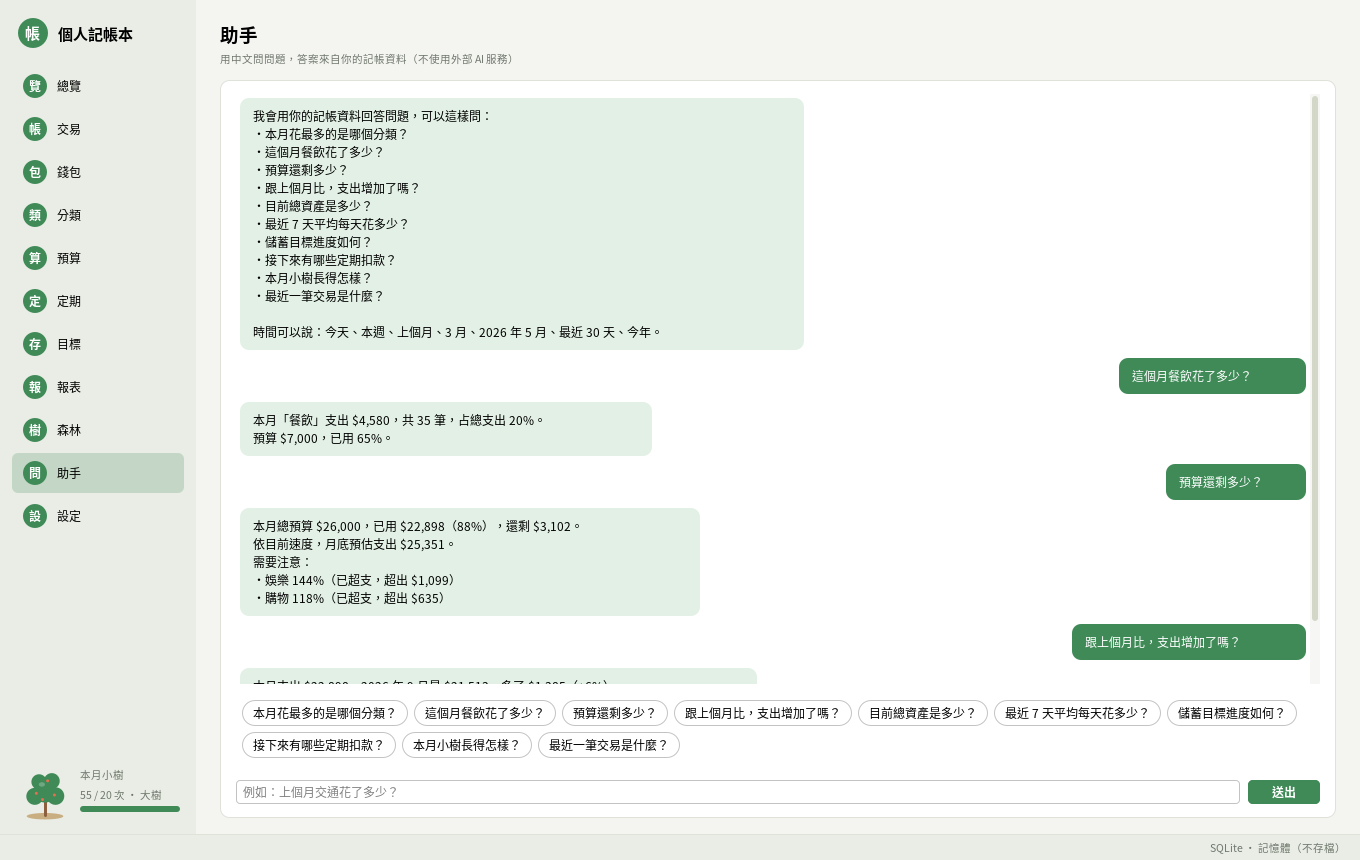
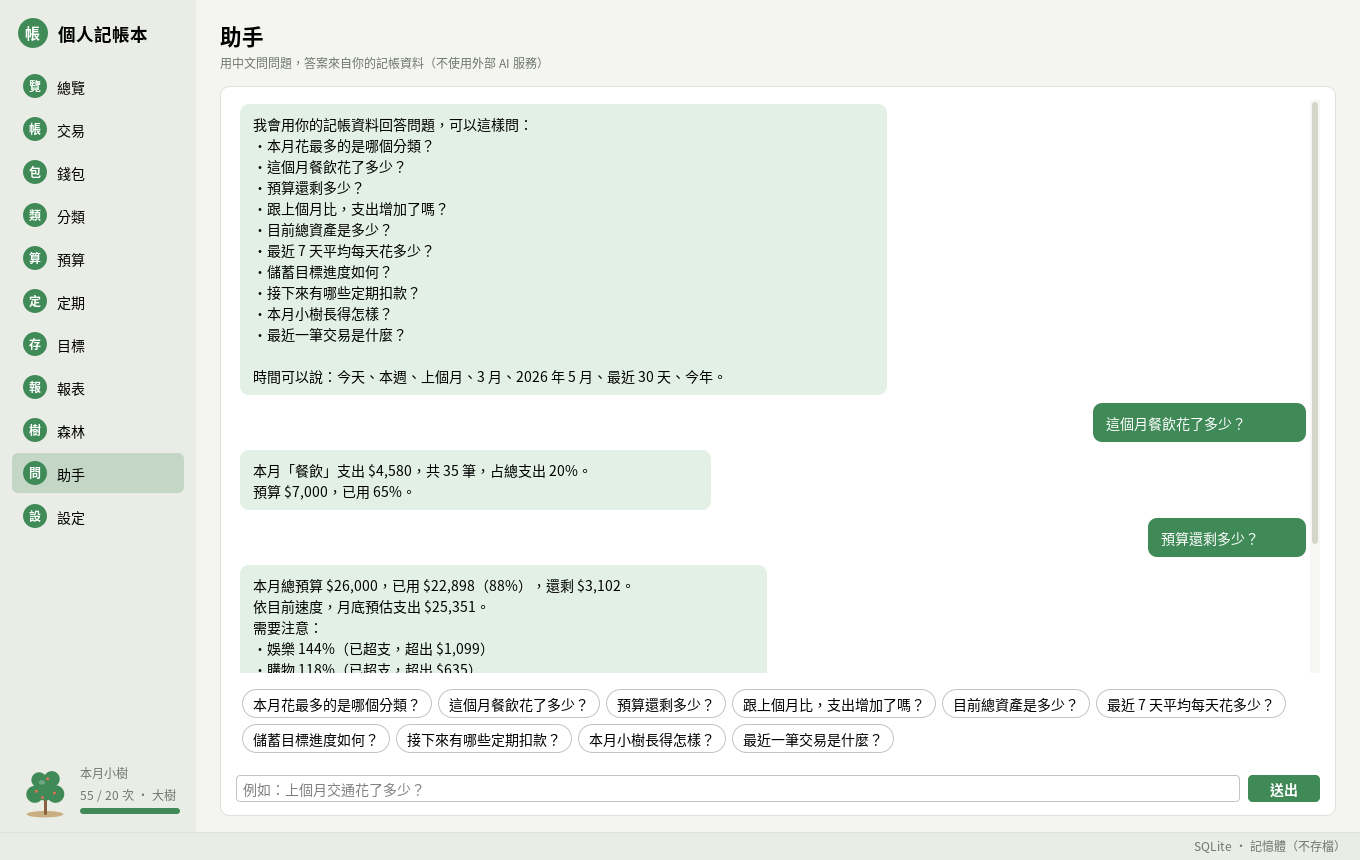
Polish UI text, fonts and screenshots
Use a font one size larger than the platform default (relative, so
system scaling is kept), let Enter in the amount field save the
dialog, keep the dashboard side column from clipping its content, show
tree stages without repeating the status, round monthly saving targets
up to whole dollars, and regenerate the screenshots.

diff --git a/src/main/java/budgetbook/ui/pages/DashboardPage.java b/src/main/java/budgetbook/ui/pages/DashboardPage.java
@@ -62,7 +62,7 @@ public final class DashboardPage extends Page {
     private final ChartView donut = new ChartView(250);
     private final ChartView bars = new ChartView(220);
     private final JPanel budgets = column();
-    private final TreeView tree = new TreeView(120);
+    private final TreeView tree = new TreeView(108);
     private final JLabel treeTitle = Widgets.heading("");
     private final JLabel treeText = Widgets.muted("");
     private final JLabel streakText = Widgets.muted("");
@@ -132,8 +132,16 @@ public final class DashboardPage extends Page {
         JPanel row = new JPanel(new BorderLayout(14, 0));
         row.setOpaque(false);
         row.add(main, BorderLayout.CENTER);
-        side.setPreferredSize(new Dimension(SIDE_WIDTH, side.getPreferredSize().height));
-        row.add(side, BorderLayout.EAST);
+        // 右欄固定寬度，高度隨內容變化，資料變多時整列一起變高而不會被截掉
+        JPanel fixedWidth = new JPanel(new BorderLayout()) {
+            @Override
+            public Dimension getPreferredSize() {
+                return new Dimension(SIDE_WIDTH, super.getPreferredSize().height);
+            }
+        };
+        fixedWidth.setOpaque(false);
+        fixedWidth.add(side, BorderLayout.CENTER);
+        row.add(fixedWidth, BorderLayout.EAST);
         row.setAlignmentX(Component.LEFT_ALIGNMENT);
         return row;
     }
@@ -254,11 +262,11 @@ public final class DashboardPage extends Page {
         MonthlyTree current = app.trees().currentTree();
         Forest forest = app.trees().forest(24);
         tree.setStage(current.stage());
-        treeTitle.setText(current.stage().displayName() + "（" + current.stage().statusText() + "）");
-        treeText.setText("本月澆水 " + current.records() + " / " + current.goal() + " 次"
-                + (current.isCompleted() ? "，已經完成！" : "，再 " + current.remaining() + " 次完成"));
+        treeTitle.setText(current.stage().label());
+        treeText.setText("已澆水 " + current.records() + " / " + current.goal() + " 次"
+                + (current.isCompleted() ? "" : "，還差 " + current.remaining() + " 次"));
         treeMeter.setRatio(current.progress());
-        streakText.setText("連續記帳 " + forest.currentStreak() + " 天 · 森林已有 " + forest.completedCount() + " 棵樹");
+        streakText.setText("連續記帳 " + forest.currentStreak() + " 天 · 森林 " + forest.completedCount() + " 棵");
     }
 
     private void fillRecent(AppContext app) {

diff --git a/src/main/java/budgetbook/service/assistant/Answers.java b/src/main/java/budgetbook/service/assistant/Answers.java
@@ -196,8 +196,7 @@ final class Answers {
         MonthlyTree tree = s.trees().currentTree();
         Forest forest = s.trees().forest(24);
         StringBuilder text = new StringBuilder("本月已澆水 ").append(tree.records()).append(" / ").append(tree.goal())
-                .append(" 次，小樹狀態：").append(tree.stage().displayName()).append("（")
-                .append(tree.stage().statusText()).append("）");
+                .append(" 次，小樹狀態：").append(tree.stage().label());
         text.append(tree.isCompleted() ? "，本月的樹已經完成！" : "，再記 " + tree.remaining() + " 筆就完成一棵樹。");
         text.append("\n目前連續記帳 ").append(forest.currentStreak()).append(" 天，最長紀錄 ")
                 .append(forest.longestStreak()).append(" 天；森林裡已有 ").append(forest.completedCount())

diff --git a/src/main/java/budgetbook/ui/components/Fields.java b/src/main/java/budgetbook/ui/components/Fields.java
@@ -121,7 +121,10 @@ public final class Fields {
         }
     }
 
-    /** 金額欄位：可以輸入算式，例如 120+45，離開欄位時自動算出結果。 */
+    /**
+     * 金額欄位：可以輸入算式，例如 120+45，離開欄位時自動算出結果。
+     * 不加 ActionListener，讓 Enter 直接觸發對話框的「儲存」。
+     */
     public static final class AmountField extends JTextField {
         public AmountField(Money initial) {
             super(initial == null ? "" : initial.toPlainString(), 10);
@@ -133,7 +136,6 @@ public final class Fields {
                     evaluateQuietly();
                 }
             });
-            addActionListener(e -> evaluateQuietly());
         }
 
         public void setAmount(Money amount) {

diff --git a/src/main/java/budgetbook/ui/pages/GoalsPage.java b/src/main/java/budgetbook/ui/pages/GoalsPage.java
@@ -93,7 +93,8 @@ public final class GoalsPage extends Page {
         Card card = new Card(new BorderLayout(0, 10));
         card.setPreferredSize(new Dimension(320, 210));
         JLabel name = new ThemedLabel(goal.name(), Fonts.of(Font.BOLD, 1.1f), Palette::text);
-        name.setIcon(new BadgeIcon(goal.name().substring(0, 1), Palette.of(goal.color()), 32));
+        name.setIcon(new BadgeIcon(goal.name().substring(0, goal.name().offsetByCodePoints(0, 1)),
+                Palette.of(goal.color()), 32));
         name.setIconTextGap(10);
         JPanel top = new JPanel(new BorderLayout());
         top.setOpaque(false);

diff --git a/src/test/java/budgetbook/model/ValueObjectsTest.java b/src/test/java/budgetbook/model/ValueObjectsTest.java
@@ -34,6 +34,9 @@ class ValueObjectsTest {
         assertEquals(TreeStage.YOUNG_TREE, TreeStage.of(19, 20));
         assertEquals(TreeStage.FULL_TREE, TreeStage.of(20, 20));
         assertEquals("成長中", TreeStage.SAPLING.statusText());
+        assertEquals("幼苗（成長中）", TreeStage.SAPLING.label());
+        assertEquals("枯萎", TreeStage.WITHERED.label());
+        assertEquals("大樹（完成一棵樹）", TreeStage.FULL_TREE.label());
         MonthlyTree tree = new MonthlyTree(YearMonth.of(2026, 10), 15, 20);
         assertEquals(5, tree.remaining());
         assertFalse(tree.isCompleted());

diff --git a/src/main/java/budgetbook/ui/pages/ForestPage.java b/src/main/java/budgetbook/ui/pages/ForestPage.java
@@ -107,7 +107,7 @@ public final class ForestPage extends Page {
         MonthlyTree tree = ui.app().trees().currentTree();
         Forest all = ui.app().trees().forest(24);
         bigTree.setStage(tree.stage());
-        stage.setText(tree.stage().displayName() + "　" + tree.stage().statusText());
+        stage.setText(tree.stage().label());
         watering.setText("本月已澆水 " + tree.records() + " / " + tree.goal() + " 次");
         meter.setRatio(tree.progress());
         hint.setText(tree.isCompleted() ? "本月的樹已經長成大樹了！繼續記帳可以維持連續紀錄。"

diff --git a/src/main/java/budgetbook/ui/theme/Theme.java b/src/main/java/budgetbook/ui/theme/Theme.java
@@ -19,7 +19,8 @@ public final class Theme {
         if (!dark) {
             extras.put("@background", "#F4F5F1");
         }
-        extras.put("defaultFont", "14 \"" + Fonts.family() + "\"");
+        // 比系統預設字級大 1，中文字比較清楚；以相對大小設定才會保留系統的縮放比例
+        extras.put("defaultFont", "+1 \"" + Fonts.family() + "\"");
         // Windows 上 semibold 預設是 Segoe UI Semibold，沒有中文字，改成同字型的粗體
         extras.put("semibold.font", "bold");
         FlatLaf.setGlobalExtraDefaults(extras);

diff --git a/src/main/java/budgetbook/model/TreeStage.java b/src/main/java/budgetbook/model/TreeStage.java
@@ -39,6 +39,11 @@ public enum TreeStage {
         return ratio < 0.75 ? SAPLING : YOUNG_TREE;
     }
 
+    /** 階段加上原版的狀態，例如「小樹（成長中）」；枯萎只顯示一次。 */
+    public String label() {
+        return this == WITHERED ? displayName : displayName + "（" + statusText() + "）";
+    }
+
     /** 原版的三種狀態文字：枯萎、成長中、完成一棵樹。 */
     public String statusText() {
         return switch (this) {
